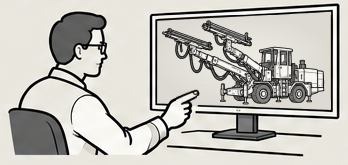
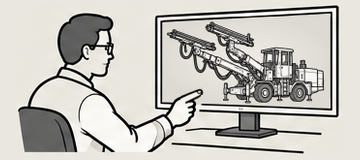
Normalize network artwork and refine responsive layout
- Standardize scenes at 360x160 and the team image at 360x180,
  with transparent variants and documented artwork margins.
- Serve transparent assets from public without image optimization
  and remove the obsolete public PNGs.
- Fill the padded scene columns while preserving mirrored spacing.
- Align role-list headings, descriptions and summaries across panels.
- Use stable summary typography and keep each bullet with its label
  when wrapping.
- Fix excess mobile role-list spacing in Firefox.
- Temporarily hide the side captions and their separators.

diff --git a/features/home/MiningNetwork.tsx b/features/home/MiningNetwork.tsx
@@ -1,4 +1,3 @@
-import type { CSSProperties } from 'react';
 import Image from 'next/image';
 
 import type { NetworkContent, NetworkRoleId } from '../../lib/i18n/types';
@@ -11,8 +10,6 @@ import { NetworkConnections } from './NetworkConnections';
  */
 export type MiningNetworkVariant = 'labels' | 'roleList';
 
-/** A scene file's pixel size. */
-type Size = { width: number; height: number };
 type Side = {
   id: 'companies' | 'suppliers';
   roles: [NetworkRoleId, NetworkRoleId, NetworkRoleId];
@@ -28,25 +25,14 @@ const suppliers: Side = {
   roles: ['sales', 'engineering', 'service']
 };
 
-/**
- * Scene artwork in `public/images/company/network/`, one file per role named
- * after it and shared by both variants. Sizes are the files' pixel dimensions.
- */
-const sceneFolder = '/images/company/network';
-const scenes: Record<NetworkRoleId, Size> = {
-  operations: { width: 359, height: 154 },
-  maintenance: { width: 389, height: 166 },
-  procurement: { width: 362, height: 156 },
-  sales: { width: 386, height: 153 },
-  engineering: { width: 348, height: 165 },
-  service: { width: 363, height: 160 }
-};
-
-/** Both variants show the same smiling COMQ team in the hub. */
-const team = {
-  src: '/images/company/network/comq-team.png',
-  width: 346,
-  height: 195
+/** Transparent scene assets served from public for both layout variants. */
+const scenes: Record<NetworkRoleId, string> = {
+  operations: '/images/company/network/operations-transparent.png',
+  maintenance: '/images/company/network/maintenance-transparent.png',
+  procurement: '/images/company/network/procurement-transparent.png',
+  sales: '/images/company/network/sales-transparent.png',
+  engineering: '/images/company/network/engineering-transparent.png',
+  service: '/images/company/network/service-transparent.png'
 };
 
 function NetworkSide({
@@ -68,7 +54,9 @@ function NetworkSide({
         {/* Screen readers hear each role in the list below instead. */}
         {roleList && (
           <p className={styles.roleSummary} aria-hidden='true'>
-            {side.roles.map(role => content.roles[role]).join(' · ')}
+            {side.roles.map(role => (
+              <span key={role}>• {content.roles[role]}</span>
+            ))}
           </p>
         )}
       </div>
@@ -80,17 +68,17 @@ function NetworkSide({
             </span>
             <Image
               className={styles.scene}
-              style={{ '--scene-width': scenes[role].width } as CSSProperties}
-              src={`${sceneFolder}/${role}.png`}
+              src={scenes[role]}
+              width={360}
+              height={160}
               alt=''
-              width={scenes[role].width}
-              height={scenes[role].height}
+              unoptimized
               sizes='(max-width: 40rem) 100vw, 26rem'
             />
           </li>
         ))}
       </ul>
-      <p className={styles.sideCaption}>{text.caption}</p>
+      {/* <p className={styles.sideCaption}>{text.caption}</p> */}
     </div>
   );
 }
@@ -102,8 +90,8 @@ function NetworkSide({
  *    All text comes from the dictionary, so both languages share the
  *    diagram. The scene images are decorative: each role's name, visible or
  *    visually hidden depending on the variant, says what its scene shows.
- *    Their paper and panel backgrounds are part of the artwork, so the
- *    diagram keeps that palette in both themes.
+ *    Transparent artwork lets CSS supply the panel backgrounds. The drawings
+ *    retain their opaque object fills and the diagram's palette in both themes.
  *
  * 2. Layouts
  *    One document order serves both layouts: companies, COMQ team,
@@ -122,7 +110,11 @@ export function MiningNetwork({
 }) {
   const headingId = `mining-network-${variant}`;
   return (
-    <section className={styles.network} aria-labelledby={headingId}>
+    <section
+      className={styles.network}
+      data-variant={variant}
+      aria-labelledby={headingId}
+    >
       <div className={styles.card}>
         <h2 className={styles.heading} id={headingId}>
           {content.heading}
@@ -137,10 +129,11 @@ export function MiningNetwork({
             <div className={styles.team}>
               <Image
                 className={styles.teamImage}
-                src={team.src}
+                src='/images/company/network/comq-team-transparent.png'
+                width={360}
+                height={180}
                 alt=''
-                width={team.width}
-                height={team.height}
+                unoptimized
                 sizes='(max-width: 40rem) 60vw, 18rem'
               />
               <h3 className={styles.teamHeading}>{content.team.heading}</h3>

diff --git a/features/home/MiningNetwork.module.css b/features/home/MiningNetwork.module.css
@@ -11,8 +11,8 @@
 }
 
 /*
- * The scene images carry the artwork's paper and panel colors, so the diagram
- * keeps this palette in both themes. Dark mode frames it like other media.
+ * CSS supplies the backgrounds behind the transparent artwork, keeping this
+ * palette in both themes. Dark mode frames the diagram like other media.
  *
  * --artwork-unit is one unit of the 1536-unit artwork grid, so the wide
  * layout scales every length with the container. The ring's radius equals one
@@ -21,7 +21,7 @@
 .card {
   --artwork-unit: calc(100cqi / 1536);
   --color-team-background: #f8f7f3;
-  --color-scene-background: #e9e7de;
+  --color-scene-background: #e9e7df;
   --color-network-text: #20201d;
   --color-network-text-muted: #5f5d57;
   --color-network-border: #c4c1b8;
@@ -102,45 +102,50 @@
 }
 
 /*
- * Each row is one column as wide as its scene, with the label above it,
- * centred vertically in the row.
+ * Label and image share a column that fills the padded row,
+ * with their content centred vertically.
  */
 .role {
   display: grid;
+  grid-template-columns: minmax(0, 1fr);
   align-content: center;
 }
 
 /*
  * Each panel's outer side is one gap; its inner side is the dot zone, with the
- * connection dot in its middle (NetworkConnections). The panels mirror each
- * other: scenes sit at the outer edge, so spare width always faces the dots.
+ * connection dot in its middle (NetworkConnections). Mirrored padding
+ * determines the label and image edges on both panels.
  */
 .companies .role {
-  justify-content: start;
   padding-inline: var(--panel-gap) var(--dot-zone);
 }
 
 .suppliers .role {
-  justify-content: end;
   padding-inline: var(--dot-zone) var(--panel-gap);
 }
 
 .roleLabel {
-  margin-bottom: calc(var(--artwork-unit) * 8);
+  margin-bottom: calc(var(--artwork-unit) * 5);
   color: var(--color-network-text-muted);
   font-size: calc(var(--artwork-unit) * 21);
   font-weight: 700;
   line-height: 1.2;
-  letter-spacing: 0.08em;
   text-transform: uppercase;
 }
 
 /* Visible in the role-list variant's headers instead of above each scene. */
 .roleSummary {
+  display: flex;
+  flex-wrap: wrap;
+  column-gap: 0.75em;
   margin: calc(var(--artwork-unit) * 6) 0 0;
   color: var(--color-network-text-muted);
-  font-size: calc(var(--artwork-unit) * 23);
+  font-size: 1rem;
   line-height: 1.3;
+}
+
+.roleSummary > span {
+  white-space: nowrap;
 }
 
 /* Keeps each scene's role name for screen readers in the role-list variant. */
@@ -153,9 +158,9 @@
   white-space: nowrap;
 }
 
-/* Scenes keep their artwork size: --scene-width is the file's pixel width. */
+/* Fill the padded row while preserving each scene's aspect ratio. */
 .scene {
-  width: calc(var(--artwork-unit) * var(--scene-width));
+  width: 100%;
   height: auto;
 }
 
@@ -241,6 +246,26 @@
   line-height: 1.25;
 }
 
+/* Align headings, descriptions and role lists across the desktop panels. */
+@media (width > 640px) {
+  .network[data-variant='roleList'] .stage {
+    grid-template-rows: repeat(3, auto) calc(var(--artwork-unit) * 606) auto;
+    grid-template-areas:
+      '. companies .          suppliers .'
+      '. companies .          suppliers .'
+      '. companies .          suppliers .'
+      '. companies hub        suppliers .'
+      '. companies foundation suppliers .';
+  }
+
+  .network[data-variant='roleList'] .sideHeader {
+    display: grid;
+    grid-row: span 3;
+    grid-template-rows: subgrid;
+    align-items: start;
+  }
+}
+
 /*
  * At the site's shared mobile breakpoint, stack the panels and fan the
  * connections vertically.
@@ -297,11 +322,19 @@
 
   .companies .role,
   .suppliers .role {
-    display: grid;
-    grid-row: span 2;
+    grid-row: span 2; /* Extend across two rows: e.g. row 1 (label) and row 2 (image). */
     grid-template-rows: subgrid;
-    grid-template-columns: minmax(0, 1fr);
     padding: 0;
+  }
+
+  /* The role-list variant needs only one image row. */
+  .network[data-variant='roleList'] .roles {
+    grid-template-rows: auto;
+  }
+
+  .network[data-variant='roleList'] .role {
+    grid-row: auto;
+    grid-template-rows: auto;
   }
 
   /* Long labels break, hyphenated where supported, instead of overlapping. */
@@ -310,14 +343,8 @@
     margin-bottom: 0.375rem;
     font-size: 0.625rem;
     line-height: 1.15;
-    letter-spacing: 0.02em;
     hyphens: auto;
     overflow-wrap: anywhere;
-  }
-
-  .scene {
-    width: 100%;
-    max-width: calc(var(--scene-width) * 1px);
   }
 
   .sideCaption {

diff --git a/design/company/assets/network/README.md b/design/company/assets/network/README.md
@@ -1,0 +1,19 @@
+# Network artwork
+
+This folder contains the final PNGs. **Every image is 360 px wide.**
+
+| Files                                                                                | Image dimensions |
+| ------------------------------------------------------------------------------------ | ---------------- |
+| Engineering, maintenance, operations, procurement, sales and service (both variants) | 360 × 160 px     |
+| `comq-team-transparent.png`                                                          | 360 × 180 px     |
+
+Artwork has minimum clear edge guards of **9 px left/right and 4 px top/bottom**,
+included within these dimensions. These are padding, not crop lines.
+
+Each scene has a background PNG and a matching `*-transparent.png` with the same
+artwork size and placement. The transparent variant removes the surrounding
+background, including the guards, while retaining opaque fills inside people
+and equipment. The COMQ team has only a transparent version.
+
+**`MiningNetwork.tsx` uses all seven transparent variants directly from this
+folder.**
